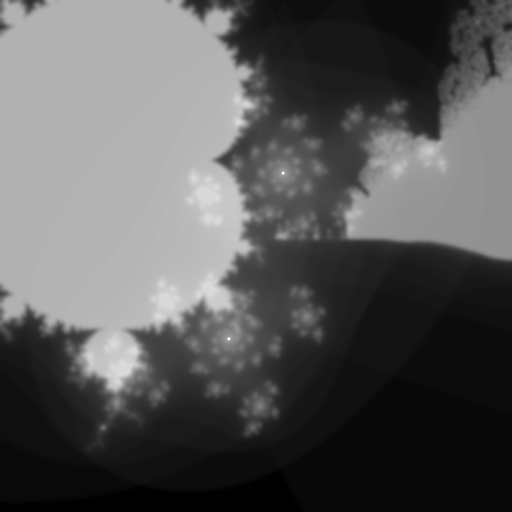
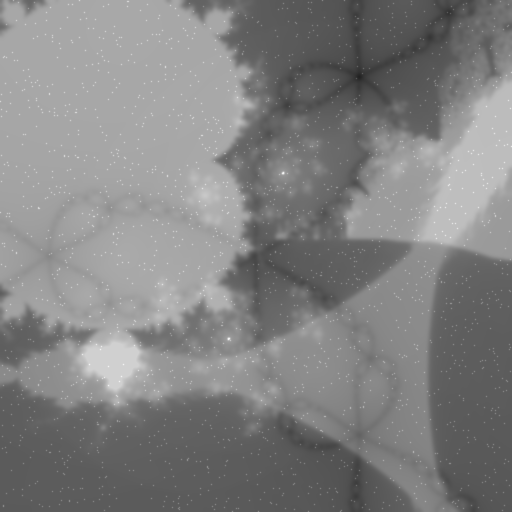
feat: enrich scenes with natural palettes, added fractals, and planet/lake details
Agent-Logs-Url: https://github.com/haesleinhuepf/fractal-art/sessions/ae94e6fb-9ee7-46f5-954d-beb35364952d

diff --git a/src/fractal_art/generator.py b/src/fractal_art/generator.py
@@ -3,7 +3,6 @@ from __future__ import annotations
 from pathlib import Path
 
 import numpy as np
-from matplotlib import colormaps
 from matplotlib import image as mpimg
 from scipy.ndimage import gaussian_filter
 from skimage import exposure, transform
@@ -11,11 +10,11 @@ from skimage import exposure, transform
 THEMES = ("landscape", "tree", "planet", "nebula", "ocean")
 STYLES = ("classic", "neon", "pastel", "mono")
 
-STYLE_CMAPS = {
-    "classic": "viridis",
-    "neon": "plasma",
-    "pastel": "magma",
-    "mono": "gray",
+STYLE_PALETTES = {
+    "classic": ("#0b1d2a", "#2c5f57", "#6f8f5c", "#d0b277", "#f1e3c6"),
+    "neon": ("#04070d", "#1d2854", "#3960b5", "#5ca7d6", "#c5f3ff"),
+    "pastel": ("#1b2534", "#5e7c8a", "#93b0a9", "#c6ccb1", "#efe0c8"),
+    "mono": ("#111111", "#5d5d5d", "#a7a7a7", "#f2f2f2"),
 }
 
 
@@ -98,11 +97,62 @@ def _burning_ship_field(size: int, seed: int, max_iter: int = 85) -> np.ndarray:
     return _normalize(gaussian_filter(field, sigma=1.0))
 
 
+def _tricorn_field(size: int, seed: int, max_iter: int = 95) -> np.ndarray:
+    rng = np.random.default_rng(seed)
+    cx, cy = rng.uniform(-0.9, 0.4), rng.uniform(-0.7, 0.7)
+    zoom = rng.uniform(0.9, 1.9)
+
+    axis = np.linspace(-1.7, 1.7, size)
+    x, y = np.meshgrid(axis, axis)
+    c = (x / zoom + cx) + 1j * (y / zoom + cy)
+    z = np.zeros_like(c)
+    field = np.zeros(c.shape, dtype=float)
+    active = np.ones(c.shape, dtype=bool)
+
+    for i in range(max_iter):
+        z[active] = np.conj(z[active]) * np.conj(z[active]) + c[active]
+        escaped = np.abs(z) > 2.0
+        newly_escaped = escaped & active
+        field[newly_escaped] = i
+        active &= ~escaped
+        if not np.any(active):
+            break
+
+    field[active] = max_iter
+    return _normalize(gaussian_filter(field, sigma=1.0))
+
+
+def _newton_field(size: int, seed: int, max_iter: int = 45) -> np.ndarray:
+    rng = np.random.default_rng(seed)
+    zoom = rng.uniform(0.8, 1.6)
+    axis = np.linspace(-1.5, 1.5, size)
+    x, y = np.meshgrid(axis, axis)
+    z = x / zoom + 1j * (y / zoom)
+
+    roots = np.array([1 + 0j, -0.5 + np.sqrt(3) / 2j, -0.5 - np.sqrt(3) / 2j])
+    field = np.zeros(z.shape, dtype=float)
+
+    for i in range(max_iter):
+        dz = 3.0 * z * z
+        safe = np.abs(dz) > 1e-8
+        z_next = z.copy()
+        z_next[safe] = z[safe] - (z[safe] ** 3 - 1.0) / dz[safe]
+        z = z_next
+        nearest = np.min(np.abs(z[:, :, None] - roots[None, None, :]), axis=2)
+        field += np.exp(-nearest * 4.5)
+        if np.max(nearest) < 1e-3:
+            break
+
+    return _normalize(gaussian_filter(field, sigma=1.2))
+
+
 def _fractal_layers(size: int, seed: int) -> dict[str, np.ndarray]:
     return {
         "mandelbrot": _mandelbrot_field(size, seed + 11),
         "julia": _julia_field(size, seed + 23),
         "burning_ship": _burning_ship_field(size, seed + 37),
+        "tricorn": _tricorn_field(size, seed + 47),
+        "newton": _newton_field(size, seed + 59),
     }
 
 
@@ -157,17 +207,61 @@ def _add_planet(canvas: np.ndarray, texture: np.ndarray, center: tuple[int, int]
     _alpha_blend(canvas, planet, alpha, center[0] - radius, center[1] - radius)
 
 
+def _add_planet_ring(
+    canvas: np.ndarray, texture: np.ndarray, center: tuple[int, int], radius: int, tilt: float = 0.45
+) -> None:
+    ring_size = int(radius * 2.7)
+    patch = transform.resize(texture, (ring_size, ring_size), anti_aliasing=True)
+    yy, xx = np.indices((ring_size, ring_size))
+    cy = (ring_size - 1) / 2
+    cx = (ring_size - 1) / 2
+    x_t = (xx - cx) * np.cos(tilt) + (yy - cy) * np.sin(tilt)
+    y_t = -(xx - cx) * np.sin(tilt) + (yy - cy) * np.cos(tilt)
+    a = radius * 1.34
+    b = radius * 0.48
+    ellipse = np.sqrt((x_t / max(a, 1e-6)) ** 2 + (y_t / max(b, 1e-6)) ** 2)
+    ring = (ellipse >= 0.78) & (ellipse <= 1.08)
+    alpha = gaussian_filter(ring.astype(float), sigma=1.2) * 0.58
+    layer = np.clip(patch * 0.95 + 0.12, 0.0, 1.0)
+    _alpha_blend(canvas, layer, alpha, center[0] - ring_size // 2, center[1] - ring_size // 2)
+
+
+def _add_horizon(canvas: np.ndarray, horizon: int, intensity: float = 0.16) -> None:
+    band = np.exp(-((np.arange(canvas.shape[0]) - horizon) / 3.5) ** 2)[:, None]
+    canvas += band * intensity
+
+
+def _add_stars(canvas: np.ndarray, seed: int, density: float = 0.015, strength: float = 0.75) -> None:
+    rng = np.random.default_rng(seed)
+    stars = (rng.random(canvas.shape) < density).astype(float)
+    twinkle = gaussian_filter(stars, sigma=0.55)
+    canvas += twinkle * strength
+
+
+def _colorize(grayscale: np.ndarray, style: str) -> np.ndarray:
+    palette = STYLE_PALETTES[style]
+    stops = np.linspace(0.0, 1.0, len(palette))
+    rgb = np.zeros((*grayscale.shape, 3), dtype=float)
+    g = np.clip(grayscale, 0.0, 1.0)
+    for c in range(3):
+        channel = np.array([int(p[1 + 2 * c : 3 + 2 * c], 16) for p in palette], dtype=float) / 255.0
+        rgb[:, :, c] = np.interp(g, stops, channel)
+    return rgb
+
+
 def _render_landscape(layers: dict[str, np.ndarray], seed: int) -> np.ndarray:
     rng = np.random.default_rng(seed)
     size = layers["mandelbrot"].shape[0]
 
-    sky = _normalize(gaussian_filter(layers["julia"] ** 0.85, sigma=2.0))
-    terrain = np.clip(layers["mandelbrot"] * 1.4 - np.gradient(layers["mandelbrot"])[0] * 0.8, 0.0, 1.0)
+    sky = _normalize(gaussian_filter(0.66 * layers["julia"] + 0.34 * layers["tricorn"], sigma=2.0))
+    terrain = np.clip(layers["mandelbrot"] * 1.35 - np.gradient(layers["mandelbrot"])[0] * 0.8, 0.0, 1.0)
     fog = np.linspace(0.35, 0.0, size)[:, None]
 
     canvas = np.clip(sky * 0.55 + fog, 0.0, 1.0)
-    horizon = int(size * 0.58)
+    horizon = int(size * 0.56)
+    lake_top = int(size * 0.62)
     canvas[horizon:, :] = np.maximum(canvas[horizon:, :], terrain[horizon:, :] * 0.95)
+    _add_horizon(canvas, horizon, intensity=0.14)
 
     sprite, alpha = _extract_tree_sprite(layers, seed + 101)
     for i in range(22):
@@ -178,6 +272,10 @@ def _render_landscape(layers: dict[str, np.ndarray], seed: int) -> np.ndarray:
         y = horizon + int(rng.integers(8, 36)) - tree.shape[0]
         _alpha_blend(canvas, tree, a, y, x)
 
+    reflection = np.flipud(canvas[: size - lake_top, :])
+    lake_tex = _normalize(0.6 * layers["newton"][lake_top:, :] + 0.4 * reflection[: size - lake_top, :])
+    canvas[lake_top:, :] = np.maximum(canvas[lake_top:, :], gaussian_filter(lake_tex, sigma=1.2) * 0.85)
+
     _add_planet(canvas, layers["burning_ship"], (int(size * 0.22), int(size * 0.78)), int(size * 0.08))
     return np.clip(canvas, 0.0, 1.0)
 
@@ -186,8 +284,10 @@ def _render_tree(layers: dict[str, np.ndarray], seed: int) -> np.ndarray:
     rng = np.random.default_rng(seed)
     size = layers["mandelbrot"].shape[0]
 
-    canvas = _normalize(0.3 * layers["julia"] + 0.35 * layers["burning_ship"])
+    canvas = _normalize(0.25 * layers["julia"] + 0.35 * layers["burning_ship"] + 0.4 * layers["newton"])
     canvas = np.clip(canvas * 0.5 + np.linspace(0.2, 0.8, size)[:, None] * 0.25, 0.0, 1.0)
+    horizon = int(size * 0.57)
+    _add_horizon(canvas, horizon, intensity=0.1)
 
     sprite, alpha = _extract_tree_sprite(layers, seed + 301)
     for row in range(3):
@@ -209,11 +309,17 @@ def _render_planet(layers: dict[str, np.ndarray], seed: int) -> np.ndarray:
     rng = np.random.default_rng(seed)
     size = layers["mandelbrot"].shape[0]
 
-    stars = np.clip((layers["julia"] > 0.94).astype(float) * 0.9, 0.0, 1.0)
-    nebula = _normalize(gaussian_filter(0.45 * layers["julia"] + 0.55 * layers["burning_ship"], sigma=3.0))
-    canvas = np.clip(nebula * 0.55 + gaussian_filter(stars, sigma=0.7) * 0.6, 0.0, 1.0)
+    stars = np.clip((layers["julia"] > 0.952).astype(float) * 0.9, 0.0, 1.0)
+    galaxy = _normalize(gaussian_filter(0.62 * layers["tricorn"] + 0.38 * layers["newton"], sigma=2.3))
+    nebula = _normalize(gaussian_filter(0.35 * layers["julia"] + 0.35 * layers["burning_ship"] + 0.3 * layers["tricorn"], sigma=3.0))
+    swirl = np.linspace(0.0, 1.0, size)[None, :]
+    canvas = np.clip(nebula * 0.42 + galaxy * 0.4 * (1.1 - np.abs(swirl - 0.58)) + gaussian_filter(stars, sigma=0.7) * 0.6, 0.0, 1.0)
+    _add_stars(canvas, seed + 777, density=0.012, strength=0.52)
 
-    _add_planet(canvas, layers["burning_ship"], (int(size * 0.54), int(size * 0.42)), int(size * 0.22))
+    center = (int(size * 0.54), int(size * 0.42))
+    radius = int(size * 0.22)
+    _add_planet_ring(canvas, layers["newton"], center, radius)
+    _add_planet(canvas, layers["burning_ship"], center, radius)
     _add_planet(canvas, layers["mandelbrot"], (int(size * 0.22), int(size * 0.82)), int(size * 0.07))
 
     sprite, alpha = _extract_tree_sprite(layers, seed + 401)
@@ -229,30 +335,40 @@ def _render_planet(layers: dict[str, np.ndarray], seed: int) -> np.ndarray:
 
 
 def _render_nebula(layers: dict[str, np.ndarray], seed: int) -> np.ndarray:
-    _ = seed
-    base = _normalize(0.38 * layers["mandelbrot"] + 0.34 * layers["julia"] + 0.28 * layers["burning_ship"])
+    base = _normalize(
+        0.26 * layers["mandelbrot"]
+        + 0.24 * layers["julia"]
+        + 0.2 * layers["burning_ship"]
+        + 0.15 * layers["tricorn"]
+        + 0.15 * layers["newton"]
+    )
     filaments = np.clip(gaussian_filter(base ** 0.65, sigma=1.6) * 1.15, 0.0, 1.0)
     stars = gaussian_filter((layers["julia"] > 0.96).astype(float), sigma=0.8) * 0.9
-    return np.clip(filaments * 0.85 + stars, 0.0, 1.0)
+    canvas = np.clip(filaments * 0.85 + stars, 0.0, 1.0)
+    _add_stars(canvas, seed + 991, density=0.009, strength=0.32)
+    return np.clip(canvas, 0.0, 1.0)
 
 
 def _render_ocean(layers: dict[str, np.ndarray], seed: int) -> np.ndarray:
     size = layers["mandelbrot"].shape[0]
     horizon = int(size * 0.52)
 
-    sky = _normalize(gaussian_filter(0.6 * layers["julia"] + 0.4 * layers["burning_ship"], sigma=1.8))
-    water = _normalize(gaussian_filter(0.55 * layers["mandelbrot"] + 0.45 * layers["julia"], sigma=1.2))
+    sky = _normalize(gaussian_filter(0.42 * layers["julia"] + 0.35 * layers["burning_ship"] + 0.23 * layers["tricorn"], sigma=1.8))
+    water = _normalize(gaussian_filter(0.44 * layers["mandelbrot"] + 0.33 * layers["julia"] + 0.23 * layers["newton"], sigma=1.2))
     waves = np.sin(np.linspace(0, 22 * np.pi, size))[:, None] * 0.09
 
     canvas = np.clip(sky * 0.58, 0.0, 1.0)
     water_region = np.clip(water[horizon:, :] * 0.9 + waves[horizon:, :] + 0.08, 0.0, 1.0)
     canvas[horizon:, :] = np.maximum(canvas[horizon:, :], water_region)
+    _add_horizon(canvas, horizon, intensity=0.18)
 
-    _add_planet(canvas, layers["burning_ship"], (int(size * 0.23), int(size * 0.72)), int(size * 0.09))
+    planet_center = (int(size * 0.23), int(size * 0.72))
+    _add_planet(canvas, layers["burning_ship"], planet_center, int(size * 0.09))
 
     reflection = np.flipud(canvas[: size - horizon, :])
     blend = np.clip(gaussian_filter(reflection, sigma=2.5) * 0.35, 0.0, 1.0)
     canvas[horizon:, :] = np.maximum(canvas[horizon:, :], blend[: size - horizon, :])
+    _add_stars(canvas[:horizon, :], seed + 2026, density=0.011, strength=0.4)
     return np.clip(canvas, 0.0, 1.0)
 
 
@@ -297,8 +413,7 @@ def generate_art(
 
     layers = _fractal_layers(size=size, seed=seed)
     grayscale = RENDERERS[theme](layers, seed)
-    rgba = colormaps[STYLE_CMAPS[style]](grayscale)
-    rgb = (rgba[:, :, :3] * 255).astype(np.uint8)
+    rgb = (_colorize(grayscale, style) * 255).astype(np.uint8)
 
     output = Path(output_path)
     output.parent.mkdir(parents=True, exist_ok=True)

diff --git a/README.md b/README.md
@@ -6,7 +6,7 @@ A Python package for generating 512x512 fractal art PNG images using common scie
 - `matplotlib`
 - `scikit-image`
 
-The generator combines multiple fractal families (`Mandelbrot`, `Julia`, and `Burning Ship`) and composites cropped fractal elements (for example tree sprites) into layered scenes for richer artwork.
+The generator combines multiple fractal families (`Mandelbrot`, `Julia`, `Burning Ship`, `Tricorn`, and `Newton`) and composites cropped fractal elements (for example tree sprites) into layered scenes with natural color palettes, horizons, lakes, reflections, stars, galaxies, and ringed planets.
 
 ## Installation
 
